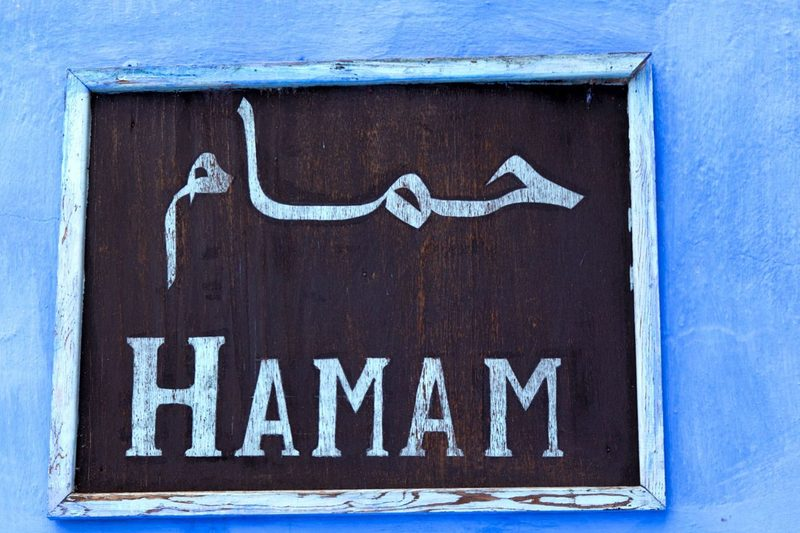
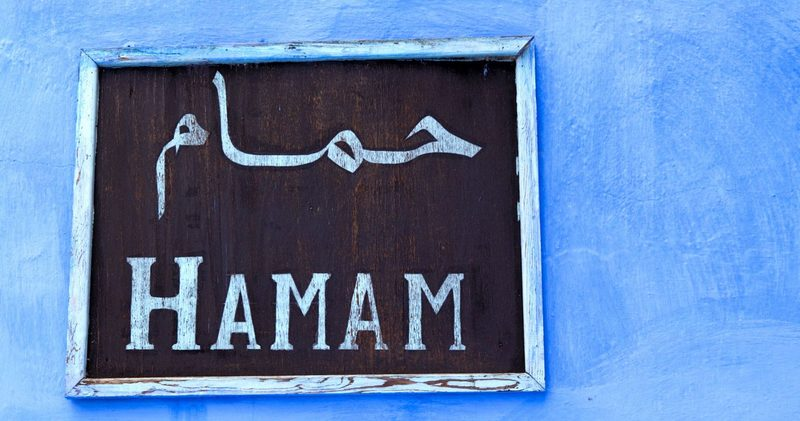
Hammam card: crop the sign photo so the whole sign shows (EN/ES/PT/IT)
Claude-Session: https://claude.ai/code/session_011VYh5Jra7pg7iHptYqu1kN

diff --git a/es/blog/index.html b/es/blog/index.html
@@ -528,7 +528,7 @@
           <li>
             <a href="/es/blog/moroccan-hammam-guide/" class="group flex h-full flex-col overflow-hidden rounded-3xl border border-gold-400/30 bg-[#0b0b0b] text-white shadow-xl shadow-black/30 transition duration-300 hover:-translate-y-2 hover:border-gold-400 hover:shadow-2xl hover:shadow-gold-500/25">
               <div class="relative h-52 overflow-hidden">
-                <picture><source type="image/webp" srcset="/public/moroccan-hammam-sign-blue-wall-card-morocco-800.webp" /><img src="/public/moroccan-hammam-sign-blue-wall-card-morocco-800.jpg" alt="Un cartel de hammam pintado a mano en árabe y letras latinas sobre una pared azul en Marruecos" width="800" height="533" loading="lazy" decoding="async" class="h-full w-full object-cover transition duration-700 group-hover:scale-105" style="object-position:center 45%" /></picture>
+                <picture><source type="image/webp" srcset="/public/moroccan-hammam-sign-blue-wall-card-morocco-800.webp" /><img src="/public/moroccan-hammam-sign-blue-wall-card-morocco-800.jpg" alt="Un cartel de hammam pintado a mano en árabe y letras latinas sobre una pared azul en Marruecos" width="800" height="421" loading="lazy" decoding="async" class="h-full w-full object-cover transition duration-700 group-hover:scale-105" style="object-position:center 50%" /></picture>
                 <div class="absolute inset-0 bg-gradient-to-t from-[#0b0b0b] via-black/10 to-transparent" aria-hidden="true"></div>
               </div>
               <div class="flex flex-1 flex-col p-7">

diff --git a/pt/blog/index.html b/pt/blog/index.html
@@ -528,7 +528,7 @@
           <li>
             <a href="/pt/blog/moroccan-hammam-guide/" class="group flex h-full flex-col overflow-hidden rounded-3xl border border-gold-400/30 bg-[#0b0b0b] text-white shadow-xl shadow-black/30 transition duration-300 hover:-translate-y-2 hover:border-gold-400 hover:shadow-2xl hover:shadow-gold-500/25">
               <div class="relative h-52 overflow-hidden">
-                <picture><source type="image/webp" srcset="/public/moroccan-hammam-sign-blue-wall-card-morocco-800.webp" /><img src="/public/moroccan-hammam-sign-blue-wall-card-morocco-800.jpg" alt="Um letreiro de hammam pintado à mão em árabe e letras latinas numa parede azul em Marrocos" width="800" height="533" loading="lazy" decoding="async" class="h-full w-full object-cover transition duration-700 group-hover:scale-105" style="object-position:center 45%" /></picture>
+                <picture><source type="image/webp" srcset="/public/moroccan-hammam-sign-blue-wall-card-morocco-800.webp" /><img src="/public/moroccan-hammam-sign-blue-wall-card-morocco-800.jpg" alt="Um letreiro de hammam pintado à mão em árabe e letras latinas numa parede azul em Marrocos" width="800" height="421" loading="lazy" decoding="async" class="h-full w-full object-cover transition duration-700 group-hover:scale-105" style="object-position:center 50%" /></picture>
                 <div class="absolute inset-0 bg-gradient-to-t from-[#0b0b0b] via-black/10 to-transparent" aria-hidden="true"></div>
               </div>
               <div class="flex flex-1 flex-col p-7">

diff --git a/it/blog/index.html b/it/blog/index.html
@@ -528,7 +528,7 @@
           <li>
             <a href="/it/blog/moroccan-hammam-guide/" class="group flex h-full flex-col overflow-hidden rounded-3xl border border-gold-400/30 bg-[#0b0b0b] text-white shadow-xl shadow-black/30 transition duration-300 hover:-translate-y-2 hover:border-gold-400 hover:shadow-2xl hover:shadow-gold-500/25">
               <div class="relative h-52 overflow-hidden">
-                <picture><source type="image/webp" srcset="/public/moroccan-hammam-sign-blue-wall-card-morocco-800.webp" /><img src="/public/moroccan-hammam-sign-blue-wall-card-morocco-800.jpg" alt="Un'insegna di hammam dipinta a mano in arabo e lettere latine su un muro blu in Marocco" width="800" height="533" loading="lazy" decoding="async" class="h-full w-full object-cover transition duration-700 group-hover:scale-105" style="object-position:center 45%" /></picture>
+                <picture><source type="image/webp" srcset="/public/moroccan-hammam-sign-blue-wall-card-morocco-800.webp" /><img src="/public/moroccan-hammam-sign-blue-wall-card-morocco-800.jpg" alt="Un'insegna di hammam dipinta a mano in arabo e lettere latine su un muro blu in Marocco" width="800" height="421" loading="lazy" decoding="async" class="h-full w-full object-cover transition duration-700 group-hover:scale-105" style="object-position:center 50%" /></picture>
                 <div class="absolute inset-0 bg-gradient-to-t from-[#0b0b0b] via-black/10 to-transparent" aria-hidden="true"></div>
               </div>
               <div class="flex flex-1 flex-col p-7">

diff --git a/blog/index.html b/blog/index.html
@@ -527,7 +527,7 @@
           <li>
             <a href="/blog/moroccan-hammam-guide/" class="group flex h-full flex-col overflow-hidden rounded-3xl border border-gold-400/30 bg-[#0b0b0b] text-white shadow-xl shadow-black/30 transition duration-300 hover:-translate-y-2 hover:border-gold-400 hover:shadow-2xl hover:shadow-gold-500/25">
               <div class="relative h-52 overflow-hidden">
-                <picture><source type="image/webp" srcset="/public/moroccan-hammam-sign-blue-wall-card-morocco-800.webp" /><img src="/public/moroccan-hammam-sign-blue-wall-card-morocco-800.jpg" alt="A hand-painted hammam sign in Arabic and Latin letters on a blue wall in Morocco" width="800" height="533" loading="lazy" decoding="async" class="h-full w-full object-cover transition duration-700 group-hover:scale-105" style="object-position:center 45%" /></picture>
+                <picture><source type="image/webp" srcset="/public/moroccan-hammam-sign-blue-wall-card-morocco-800.webp" /><img src="/public/moroccan-hammam-sign-blue-wall-card-morocco-800.jpg" alt="A hand-painted hammam sign in Arabic and Latin letters on a blue wall in Morocco" width="800" height="421" loading="lazy" decoding="async" class="h-full w-full object-cover transition duration-700 group-hover:scale-105" style="object-position:center 50%" /></picture>
                 <div class="absolute inset-0 bg-gradient-to-t from-[#0b0b0b] via-black/10 to-transparent" aria-hidden="true"></div>
               </div>
               <div class="flex flex-1 flex-col p-7">
